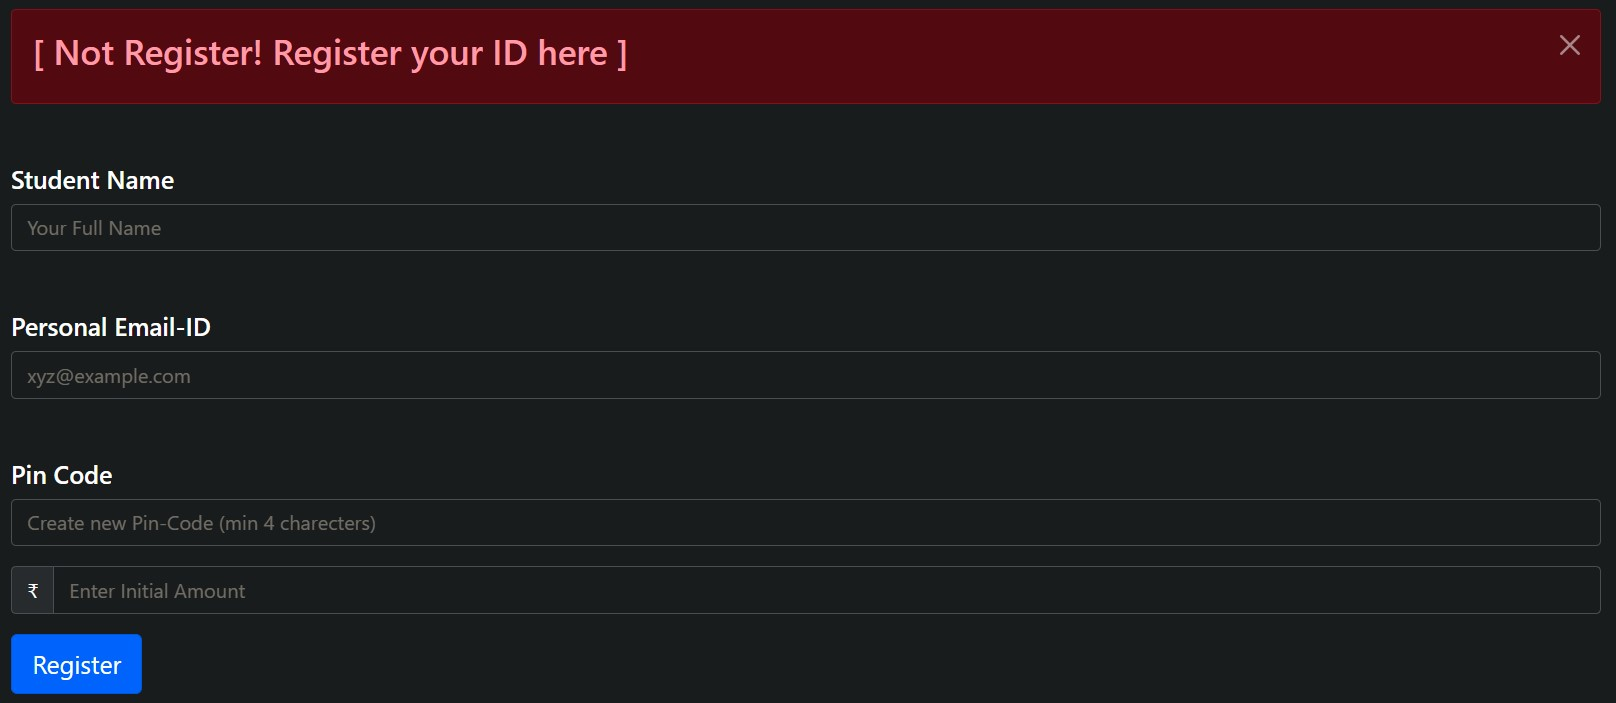
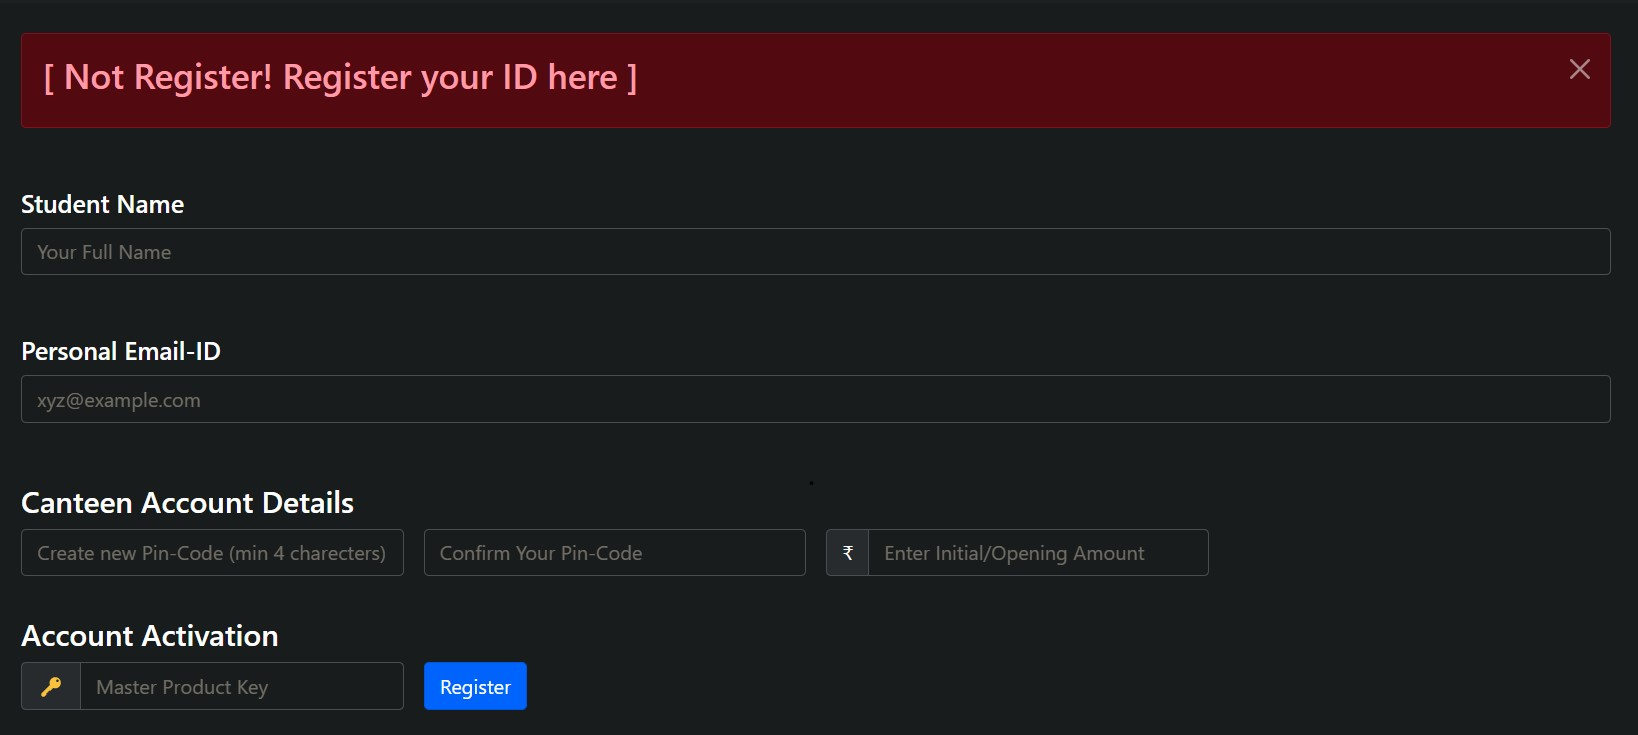
README.md updated with new images

diff --git a/README.md b/README.md
@@ -74,12 +74,12 @@
 
 ### 1. Payment
 ![](static/images/pay.jpg)
-#### As you can see in the above image, you just have to enter the <b>total amount</b> of the bought item(S) and click the `Pay Amount` button.
+#### As you can see in the above image, you just have to enter the <b>total amount</b> of the bought item(S) and then the canteen employee will enter the master key as per the verification process. Then click the `Pay Amount` button.
 <br>
 
 ### 2. Update
 ![](static/images/update.jpg)
-#### As you can see in the above image, you just have to enter the amount you want to update into your account and click the `Update Balance` button.
+#### As you can see in the above image, you just have to enter the amount you want to update/deposite into your account and then the canteen employee will enter the master key as per the verification process. Then click the `Update Balance` button.
 <br>
 
 ### 3. Check
